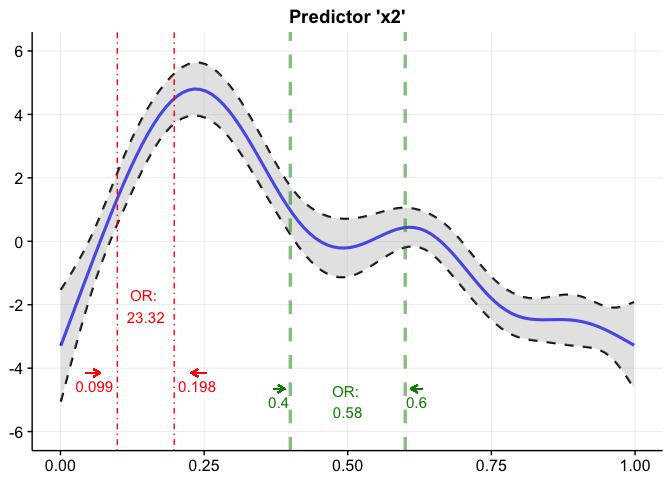
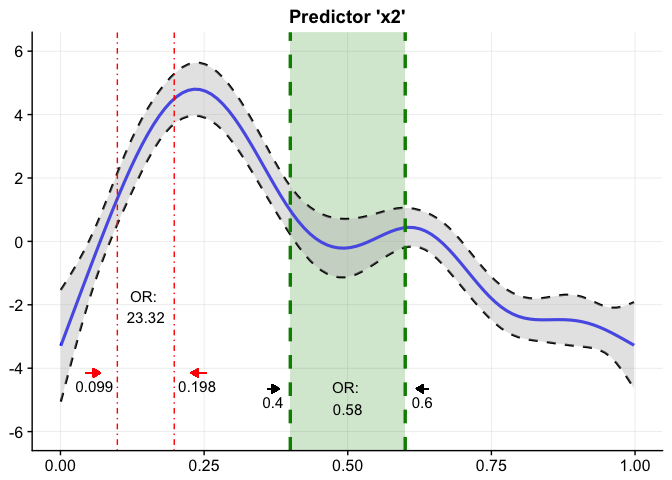
update README

diff --git a/README.md b/README.md
@@ -100,9 +100,10 @@ plot.object <- pl.smooth.gam(fit.gam, pred = "x2", title = "Predictor 'x2'")
 or.object <- calc.oddsratio.gam(data = dat, model = fit.gam, 
                    pred = "x2", values = c(0.099, 0.198))
 
-plot <- add.oddsratio.into.plot(plot.object, or.object, or.height = 3,
-                                x.shift = 0.04, line.size = 0.5, 
-                                line.type = "dotdash", values.height = 0.5)
+plot <- add.oddsratio.into.plot(plot.object, or.object, or.yloc = 3,
+                                values.xloc = 0.04, line.size = 0.5, 
+                                line.type = "dotdash", values.yloc = 0.5,
+                                arrow.col = "red")
 plot
 ```
 
@@ -114,11 +115,12 @@ If you want to insert multiple odds ratios, just go on!
 or.object2 <- calc.oddsratio.gam(data = dat, model = fit.gam, pred = "x2", 
                                  values = c(0.4, 0.6))
                                   
-add.oddsratio.into.plot(plot, or.object2, or.height = 0, 
-                        line.col = "green4", text.col = "green4", 
-                        line.alpha = 0.5, line.type = "dashed",
+add.oddsratio.into.plot(plot, or.object2, or.yloc = 0.1, 
+                        line.col = "green4", text.col = "black",
+                        rect.col = "green4", rect.alpha = 0.2,
+                        line.alpha = 1, line.type = "dashed",
                         arrow.xloc.r = 0.01, arrow.xloc.l = -0.01,
-                        arrow.length = 0.01)
+                        arrow.length = 0.01, rect = T)   
 ```
 
 ![](README_files/figure-markdown_github/unnamed-chunk-8-1.png)
